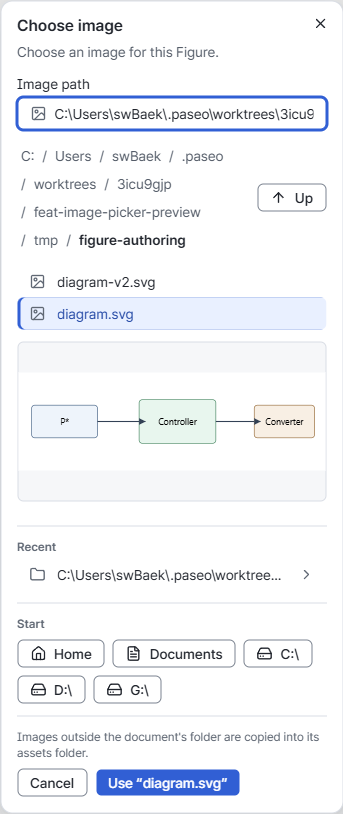
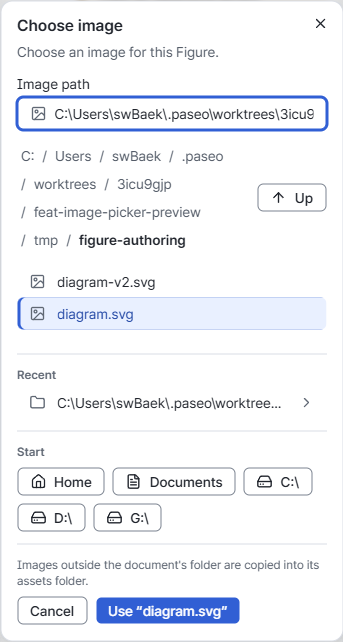
Collapse image picker preview at the existing phone breakpoint
Preserve the pre-preview list and action space below 40rem. Extend the Figure
scenario with a 375x667 no-preview baseline and retained desktop previews.
The unscrolled Cancel assertion failed before the fix and passed afterward.

AI-Agent: Codex
AI-Model: openai/gpt-6.1-sol

diff --git a/apps/editor/test/figure-authoring.browser.js b/apps/editor/test/figure-authoring.browser.js
@@ -186,6 +186,10 @@ async (page, { openDocument, expect, screenshots }) => {
         await page.setViewportSize({width, height:1000});
         await picker.screenshot({path:`tmp/image-picker-preview/selected-${width}.png`, animations:'disabled'});
       }
+      await page.setViewportSize({width:375, height:667});
+      await picker.screenshot({path:'tmp/image-picker-preview/compact-375-667.png', animations:'disabled'});
+      await page.setViewportSize({width:1366, height:768});
+      await picker.screenshot({path:'tmp/image-picker-preview/desktop-1366-768.png', animations:'disabled'});
       await page.setViewportSize(viewport);
     }
     const preview = picker.getByRole('region', {name:'Read-only image preview'});
@@ -259,7 +263,7 @@ async (page, { openDocument, expect, screenshots }) => {
       const path = name => filePath.replace('technical-document.md', name);
       // Equivalent root spelling gives these requests fresh URLs: decoded images from the
       // preceding click tests must not bypass the controlled response order via browser reuse.
-      await route.fulfill({response, json:{...listing, path:listing.path + separator, entries:[
+      await route.fulfill({response, json:{...listing, path:listing.path + separator, crumbs:listing.crumbs.slice(-1), entries:[
         {name:'subfolder', kind:'folder', path:path('subfolder')},
         ...['diagram.svg', 'diagram-v2.svg'].map(name => listing.entries.find(entry => entry.name === name)),
         {name:'broken.svg', kind:'image', path:path('broken.svg')},
@@ -277,8 +281,11 @@ async (page, { openDocument, expect, screenshots }) => {
         delayedFinished = true;
       } else await route.fulfill({response});
     };
+    // A root-bounded Host layout leaves the pre-preview actions visible even on a short phone.
+    const imagePlaces = route => route.fulfill({json:{places:[{kind:'root', name:'Images', path:filePath.slice(0, -'technical-document.md'.length)}]}});
     await page.route('**/api/folder-browse?*', imageListing);
     await page.route('**/api/file-preview?*', previewRoute);
+    await page.route('**/api/folder-places', imagePlaces);
     try {
       await page.getByRole('button', {name:'Choose…', exact:true}).click();
       await picker.getByRole('option', {name:'subfolder', exact:true}).waitFor();
@@ -288,6 +295,26 @@ async (page, { openDocument, expect, screenshots }) => {
       await pathField.press('ArrowDown');
       expect(await preview.count(), 'A keyboard-active folder has no preview').toBe(0);
       expect(previewRequests).toEqual([]);
+      // A folder has the pre-preview layout. Compare the same listing and controls at phone size.
+      const compactLayout = async () => {
+        const list = await picker.getByRole('listbox').boundingBox();
+        const bounds = await picker.evaluate(dialog => ({top:dialog.getBoundingClientRect().top + dialog.clientTop,
+          bottom:dialog.getBoundingClientRect().top + dialog.clientTop + dialog.clientHeight, scrollTop:dialog.scrollTop}));
+        const visible = async button => {
+          const box = await button.boundingBox();
+          return box !== null && box.y >= Math.max(bounds.top, 0) && box.y + box.height <= Math.min(bounds.bottom, 667);
+        };
+        return {listHeight:list.height, scrollTop:bounds.scrollTop,
+          cancel:await visible(picker.getByRole('button', {name:'Cancel', exact:true})),
+          use:await visible(picker.getByTestId('folder-open'))};
+      };
+      await page.setViewportSize({width:375, height:667});
+      await page.evaluate(() => document.fonts.ready);
+      const beforePreview = await compactLayout();
+      expect(beforePreview.listHeight, 'The pre-preview listing has usable height').toBeGreaterThan(0);
+      expect(beforePreview.scrollTop).toBe(0);
+      expect(beforePreview, 'The root-bounded pre-preview fixture fits both actions').toMatchObject({cancel:true, use:true});
+      await page.setViewportSize({width:1280, height:720});
       const entries = await picker.getByRole('option').allTextContents();
       const moveTo = async name => {
         for (let i = 0; i < entries.length; i++) {
@@ -312,8 +339,8 @@ async (page, { openDocument, expect, screenshots }) => {
       expect(await page.getByTestId('figure-image-url').inputValue()).toBe('./diagram-v2.svg');
       await expect(pathField).toBeFocused();
       expect(await pathField.getAttribute('aria-activedescendant')).toBe(await picker.getByRole('option', {name:'diagram-v2.svg', exact:true}).getAttribute('id'));
-      for (const width of [1440, 375]) {
-        await page.setViewportSize({width, height:1000});
+      for (const [width, height] of [[1440, 1000], [1366, 768], [375, 667]]) {
+        await page.setViewportSize({width, height});
         const layout = await picker.evaluate(dialog => ({
           client:dialog.clientWidth, scroll:dialog.scrollWidth,
           children:[...dialog.children].map(element => ({tag:element.tagName, class:element.className,
@@ -322,12 +349,24 @@ async (page, { openDocument, expect, screenshots }) => {
         expect(layout.scroll, `${width}px dialog has no horizontal overflow: ${JSON.stringify(layout)}`).toBeLessThanOrEqual(layout.client);
         expect(await picker.evaluate(dialog => { const box = dialog.getBoundingClientRect(); return box.left >= 0 && box.right <= innerWidth; })).toBe(true);
         expect(await page.evaluate(() => document.documentElement.scrollWidth <= innerWidth)).toBe(true);
-        const fits = await current.evaluate(image => {
-          const box = image.getBoundingClientRect(), parent = image.parentElement.getBoundingClientRect();
-          return box.width <= parent.width && box.height <= parent.height && Math.abs(box.width / box.height - image.naturalWidth / image.naturalHeight) < 0.01;
-        });
-        expect(fits, 'Preview fits without distorting the image').toBe(true);
+        if (width === 375) {
+          const compact = await compactLayout();
+          if (screenshots) await picker.screenshot({path:'tmp/image-picker-preview/compact-375-667.png', animations:'disabled'});
+          expect(compact.listHeight, `Preview preserves pre-PR list height: ${JSON.stringify({beforePreview, compact})}`).toBeGreaterThanOrEqual(beforePreview.listHeight);
+          expect(compact.scrollTop, 'Compact checks never scroll the dialog to reach actions').toBe(0);
+          if (beforePreview.cancel) expect(compact.cancel, 'Cancel stays visible without scrolling').toBe(true);
+          if (beforePreview.use) expect(compact.use, 'Use stays visible without scrolling').toBe(true);
+          expect(await preview.count(), `Phone layout collapses the preview: ${JSON.stringify({beforePreview, compact})}`).toBe(0);
+        } else {
+          await expect(current, `${width}×${height} retains the preview`).toBeVisible();
+          const fits = await current.evaluate(image => {
+            const box = image.getBoundingClientRect(), parent = image.parentElement.getBoundingClientRect();
+            return box.width <= parent.width && box.height <= parent.height && Math.abs(box.width / box.height - image.naturalWidth / image.naturalHeight) < 0.01;
+          });
+          expect(fits, 'Preview fits without distorting the image').toBe(true);
+        }
       }
+      await page.setViewportSize({width:1280, height:720});
       await moveTo('broken.svg');
       await expect(preview.getByText('The image could not be previewed. It may be unavailable, damaged, unsupported, or larger than 10 MiB.')).toBeVisible();
       expect(await preview.getByRole('img').isVisible()).toBe(false);
@@ -342,6 +381,7 @@ async (page, { openDocument, expect, screenshots }) => {
       releasePreview();
       await page.unroute('**/api/file-preview?*', previewRoute);
       await page.unroute('**/api/folder-browse?*', imageListing);
+      await page.unroute('**/api/folder-places', imagePlaces);
     }
     await page.setViewportSize({width:1280, height:720});
     result.existingLabelInForm = await page.getByTestId('figure-label').inputValue() === 'fig-control' &&

diff --git a/apps/editor/src/styles.css b/apps/editor/src/styles.css
@@ -2532,6 +2532,11 @@ ol.list { list-style: decimal; }
   overflow-wrap: anywhere;
 }
 
+/* Reuse the shell's phone boundary: image preview must not crowd the list or its actions. */
+@media (width < 40rem) {
+  .folder-picker-preview { display: none; }
+}
+
 .folder-picker-option {
   display: grid;
   grid-template-columns: var(--size-icon-slot) minmax(0, 1fr) var(--size-icon-slot);

diff --git a/docs/design/folder-picker-v1.md b/docs/design/folder-picker-v1.md
@@ -105,13 +105,25 @@ Only that entry loads, through the existing read-only `/api/file-preview` Host c
 using the listed folder as root. No thumbnails, new Host endpoint, persistence or document
 semantic operation is added; this interface-only preview needs no Core/CLI operation.
 
-The preview sits below the list at both desktop and phone widths, with a bounded height and
-aspect ratio preserved. It has the accessible label `Read-only image preview` and no focusable
+The preview sits below the list with a bounded height and aspect ratio preserved. Below the
+existing phone breakpoint (`width < 40rem`, 640px), its region is collapsed so it consumes no
+list or footer space. Phone path/breadcrumb/place/footer wrapping varies with content; this
+conservative width boundary reuses the shell's phone layout instead of adding a new height
+threshold or measurement logic. At 1366×768 and 1440px the preview remains available.
+It has the accessible label `Read-only image preview` and no focusable
 controls. A folder or no active image shows no preview. Loading and failure use quiet text;
 unavailable, damaged or unsupported images do not block choosing a path. Changing the active
 entry replaces the preview and its load state, so an older response cannot appear for the new
 entry. Previewing never changes the typed/chosen path, focus, filtering, completion or active
 descendant behavior.
+
+The compact follow-up extends the same Figure scenario at 375×667. A root-bounded listing
+with a folder active supplies the pre-preview layout: list height must not decrease when an
+image becomes active, and Cancel/Use must remain visible at dialog scroll position zero when
+they were visible before. The fixture explicitly establishes that both actions fit before the
+preview. Before the CSS fix, `Cancel stays visible without scrolling` failed on `1511568`;
+afterward the scenario passed, retaining the strict overflow, desktop aspect/race and keyboard
+checks. It also verifies that 1366×768 and 1440px retain the preview.
 
 The dialog uses one `minmax(0, 1fr)` grid column and a shrinkable path-input row. A Linux CI
 375px run exposed an intrinsic column wider than the dialog's padded content area (17px of
@@ -132,14 +144,24 @@ Manual visual comparison uses this worktree's Vite Host on port 5380 and persist
 profile, English UI, Pretendard loaded, DPR/zoom 1, 1440×1000 and 375×1000 viewports. Both
 states have `diagram.svg` clicked, siblings visible, path input focused, pointer outside the
 dialog and dialog scroll at the top. Before captures are from base `c232915`; after captures
-use the same fixture and state. The only added region is the bounded preview below the list;
-the full image fits without distortion, and Cancel/Use remain visible at both widths. These
+use the same fixture and state. Desktop adds the bounded preview below the list; phone widths
+collapse it to preserve the pre-preview list/action space. These
 dialog captures are manual presentation evidence, separate from automated overflow assertions.
 
 | Viewport | Before | After |
 | --- | --- | --- |
 | 1440px | ![Picker before at 1440px](assets/image-picker-preview-480/before-1440.png) | ![Active image preview at 1440px](assets/image-picker-preview-480/after-1440.png) |
-| 375px | ![Picker before at 375px](assets/image-picker-preview-480/before-375.png) | ![Active image preview at 375px](assets/image-picker-preview-480/after-375.png) |
+| 375px | ![Picker before at 375px](assets/image-picker-preview-480/before-375.png) | ![Phone picker with collapsed preview](assets/image-picker-preview-480/after-375.png) |
+
+The following same-state 375×667 follow-up uses the root-bounded listing described above,
+`diagram-v2.svg` keyboard-active, the unchanged directory path focused, and dialog scroll zero.
+Before is `1511568`; after collapses only the preview. Both retain the full four-row list
+(128px in this fixture); Cancel/Use now fit without scrolling, as they did without an active
+image. Manual review also confirmed the retained preview at 1366×768.
+
+| Before compact fix | After compact fix |
+| --- | --- |
+| ![375 by 667 preview crowds out actions](assets/image-picker-preview-480/compact-before-375-667.png) | ![375 by 667 list and actions without preview](assets/image-picker-preview-480/compact-after-375-667.png) |
 
 ## Exclusions
 

diff --git a/docs/design/editor-visual-language-v1.md b/docs/design/editor-visual-language-v1.md
@@ -150,7 +150,8 @@ IeumDoc keeps one stylesheet; comparison captures do not need a runtime old/new 
 ## Adjustable values and preferences
 
 - Image picker (#480): `--layout-folder-picker-preview-height` (10rem / 160px) bounds the
-  active image below the list at desktop and phone widths. Its structural border, subtle surface,
+  active image below the list at desktop widths. Below the existing `40rem` phone boundary the
+  preview collapses, preserving the list and action space. Its structural border, subtle surface,
   radius, 12px helper inset and muted text reuse existing product tokens. It adds no control;
   the image keeps its aspect ratio and the dialog retains its viewport scrolling.
 
